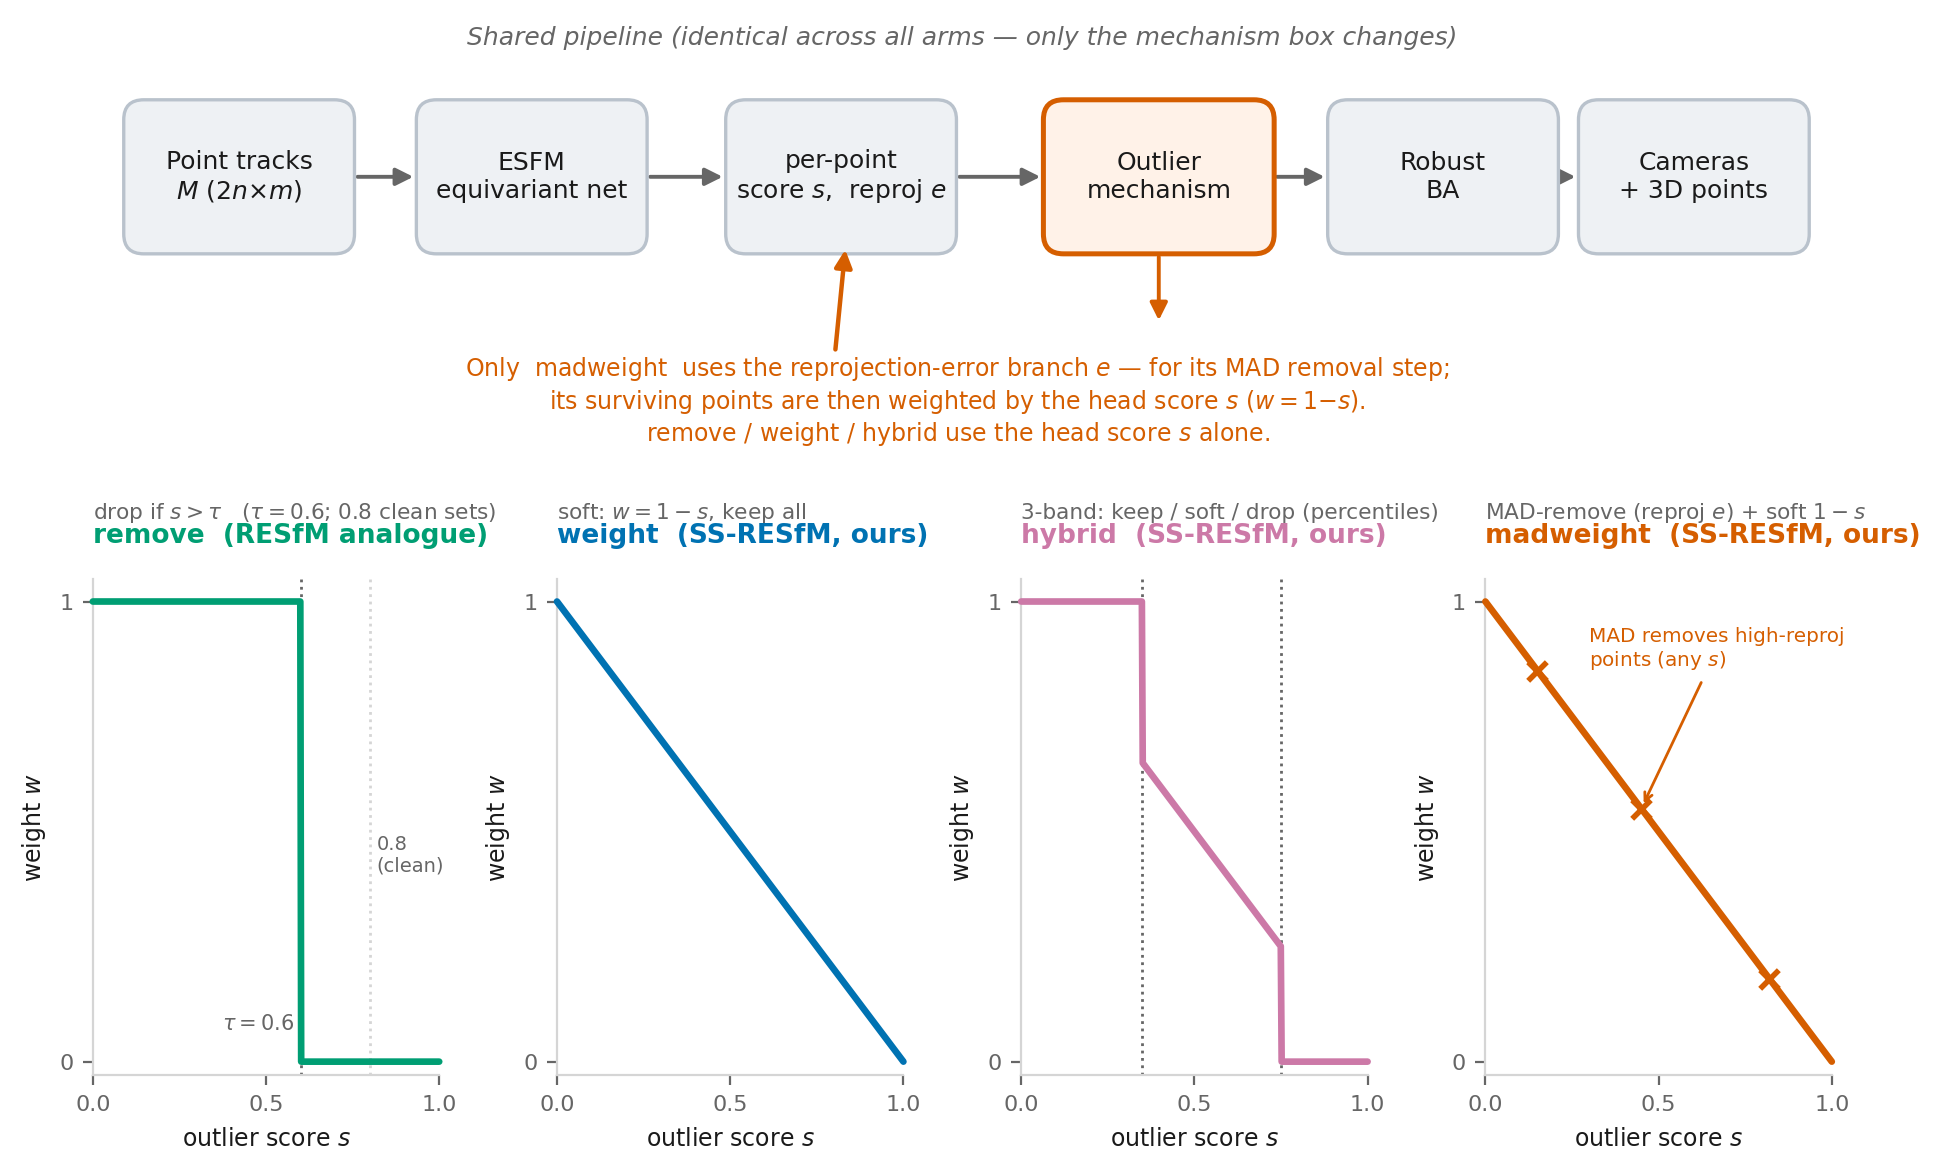
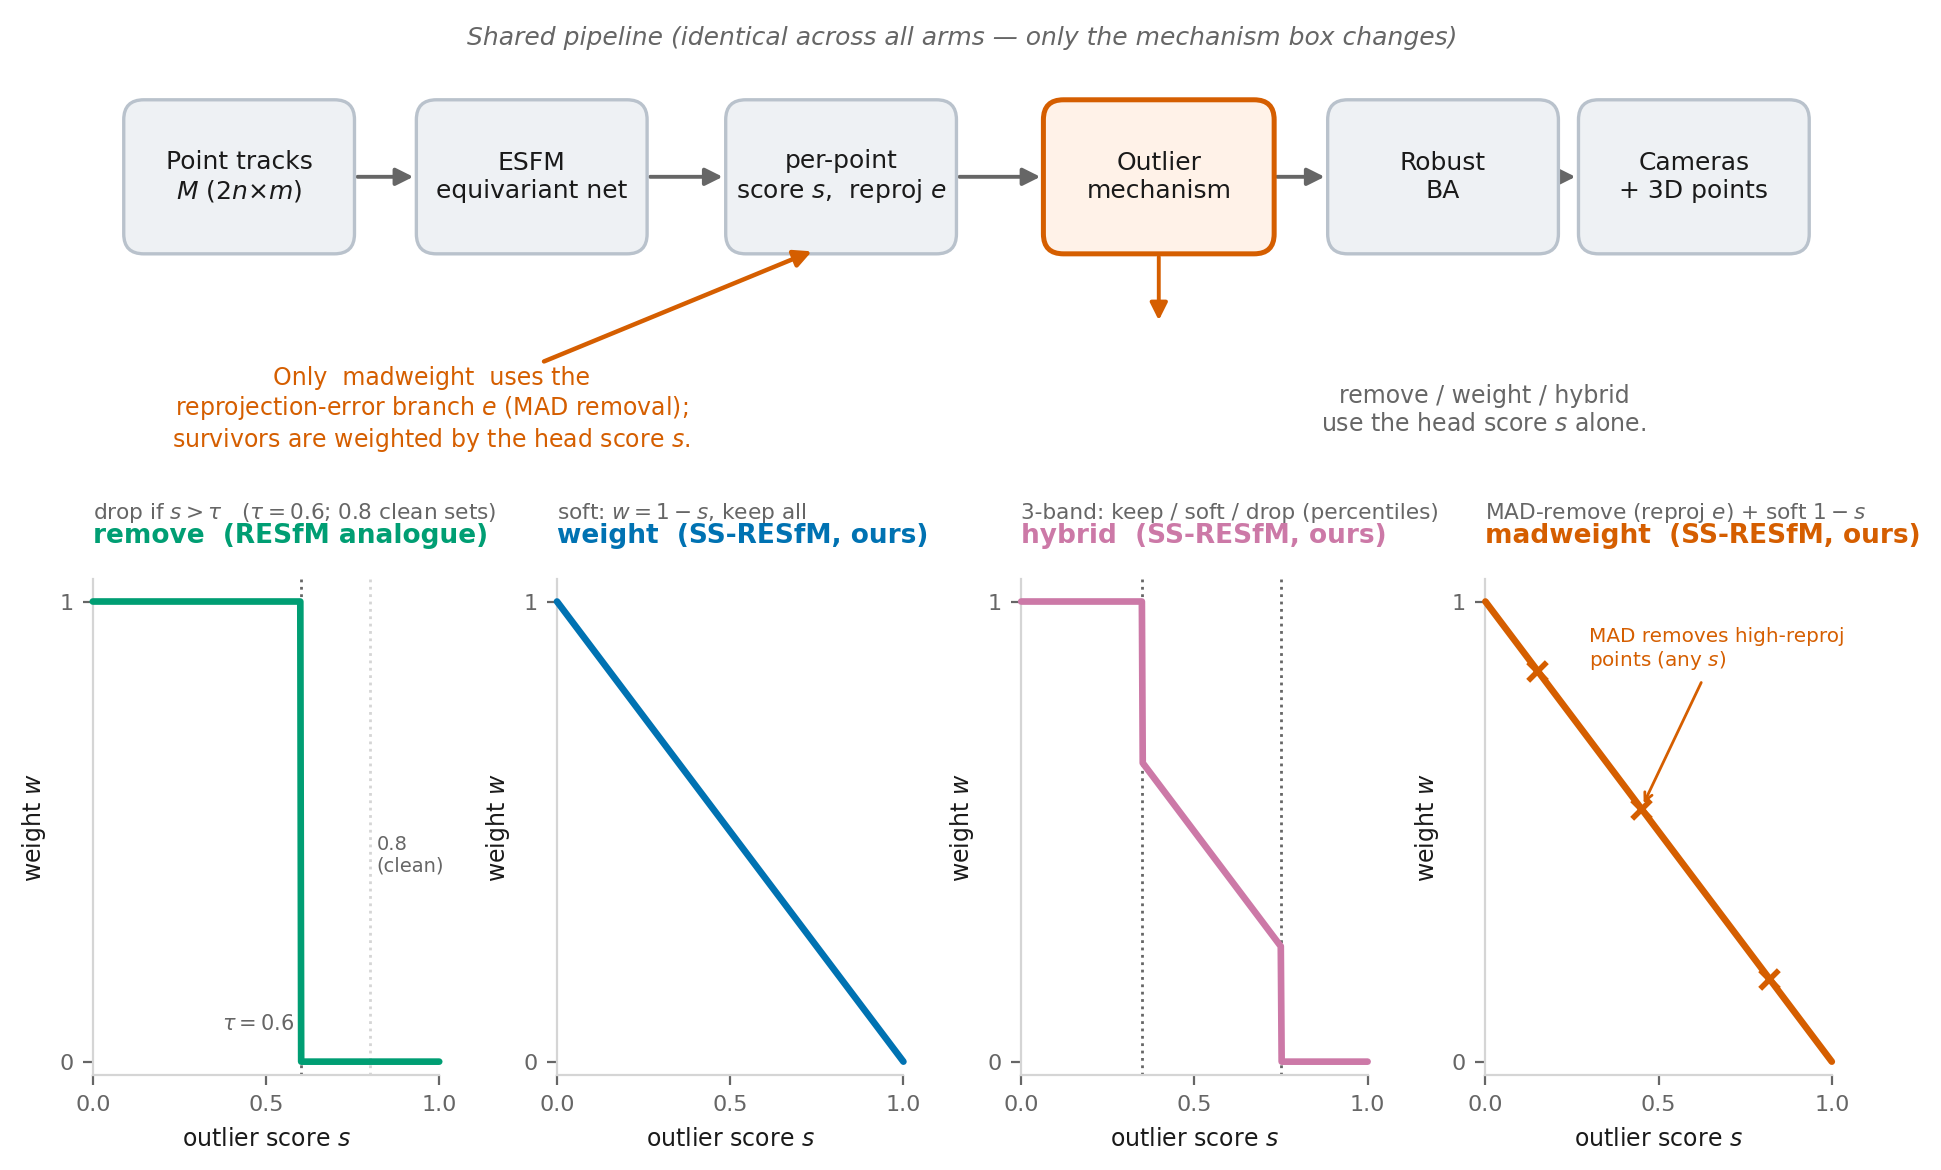
Fig2: split callout into two columns (madweight/e left with arrow to signal box; s-alone note right), decluttering the orange arrows
Claude-Session: https://claude.ai/code/session_01Tev8UFDgcRH3PtgM6sFBxN

Changed region(s): [[0.0927, 0.2769, 0.8346, 0.4], [0.3709, 0.2154, 0.4637, 0.2462], [0.34, 0.2462, 0.3709, 0.2769]]

diff --git a/code/make_fig2_method.py b/code/make_fig2_method.py
@@ -94,15 +94,16 @@ def mad_extra(ax):
 ax_mad = panel(3, C_MAD, "madweight  (SS-RESfM, ours)", "MAD-remove (reproj $e$) + soft $1-s$",
                lambda s: 1 - s, extra=mad_extra)
 
-# highlighted reproj-e branch: only madweight consumes the reprojection-error e
-fig.text(0.52, 0.672,
-         "Only  madweight  uses the reprojection-error branch $e$ — for its MAD removal step;\n"
-         "its surviving points are then weighted by the head score $s$ ($w{=}1{-}s$).\n"
-         "remove / weight / hybrid use the head score $s$ alone.",
+# two column-separated callouts: left ties to the (s, e) signal box, right to the mechanism box
+fig.text(0.24, 0.665,
+         "Only  madweight  uses the\nreprojection-error branch $e$ (MAD removal);\n"
+         "survivors are weighted by the head score $s$.",
          ha="center", va="center", fontsize=8.5, color=C_MAD)
-# short arrow tying the callout to the 'reproj e' branch in the signal box
-arr = ConnectionPatch(xyA=(0.455, 0.715), coordsA=fig.transFigure,
-                      xyB=(45, 6.1), coordsB=axp.transData,
+fig.text(0.80, 0.665,
+         "remove / weight / hybrid\nuse the head score $s$ alone.",
+         ha="center", va="center", fontsize=8.5, color=MUTED)
+arr = ConnectionPatch(xyA=(0.30, 0.705), coordsA=fig.transFigure,
+                      xyB=(43, 6.0), coordsB=axp.transData,
                       arrowstyle="-|>", mutation_scale=13, lw=1.6, color=C_MAD, zorder=5)
 fig.add_artist(arr)
 
